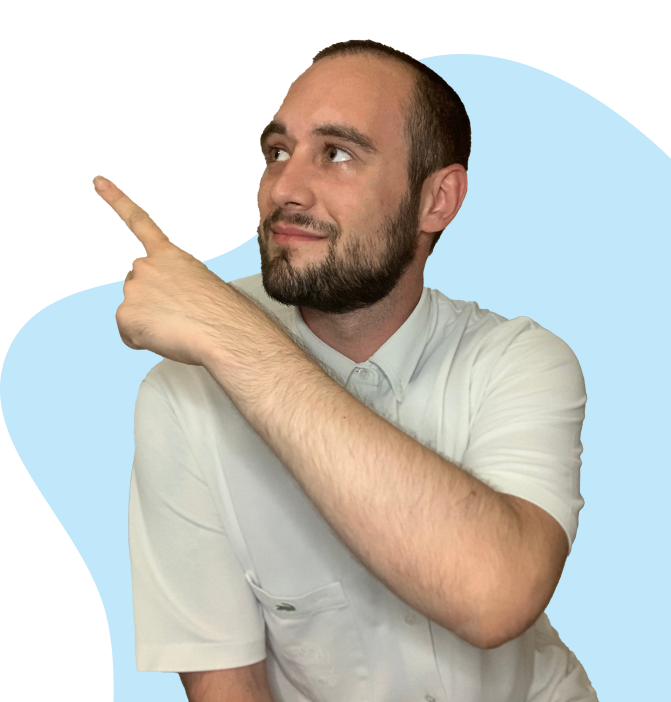
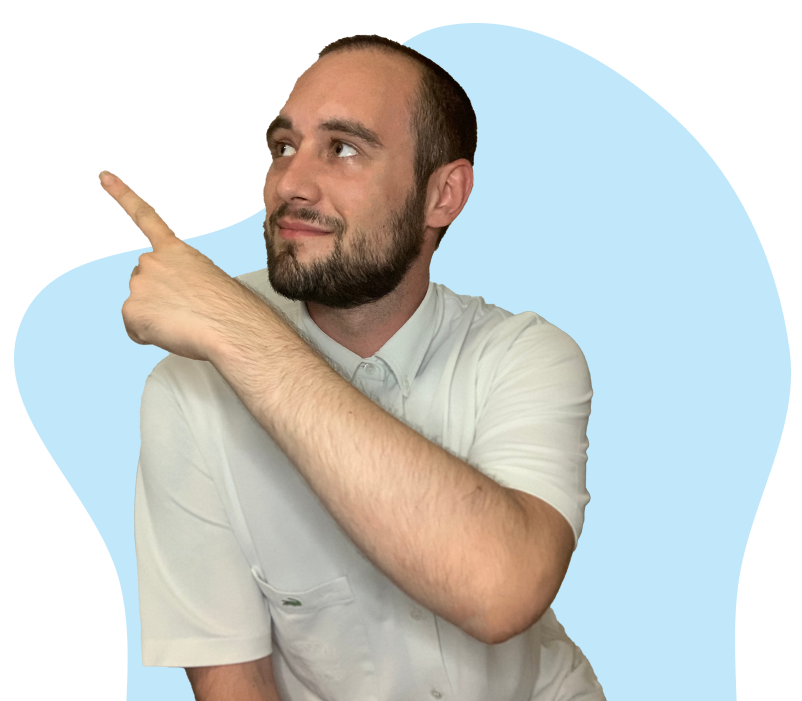
Footer Mobile Design Change

diff --git a/src/componets/preview.tsx b/src/componets/preview.tsx
@@ -9,7 +9,7 @@ export default function Preview(props) {
           <p class="text-xl max-w-xl">{props.desc}</p>
           <span class="w-min pl-4 pr-4 bg-zinc-100 rounded-full">{props.labels}</span>
           <a
-            class="font-bold underline-offset-8 underline decoration-4"
+            class="font-bold pb-10 md:pb-0 underline-offset-8 underline decoration-4"
             href={props.route}
           >
             Zum Projekt
@@ -20,7 +20,7 @@ export default function Preview(props) {
             <source srcset={props.imageWebp} type="image/webp" />
             <img
               src={props.image}
-              class="w-px-500"
+              class="w-px-500 "
               width="508px"
               height="315px"
               alt={`Image for ${props.title}`}

diff --git a/src/componets/footer.tsx b/src/componets/footer.tsx
@@ -22,7 +22,7 @@ export default function Footer() {
               <source srcset={FooterImage} type="image/webp" />
               <img
                 src={FooterImage}
-                class=" "
+                class="rotate-45 md:rotate-0 "
                 width=""
                 height=""
                 alt={`Footer Image pointing to call to action`}

diff --git a/src/componets/hero.tsx b/src/componets/hero.tsx
@@ -20,7 +20,7 @@ export default function Hero() {
               gestalte
             </span>
             ,{" "}
-            <span class="font-bold tracking-widest font-outline hover:bg-teal-200">
+            <span class="font-bold tracking-widest font-outline hover:bg-teal-200 ">
               optimiere
             </span>
             .
